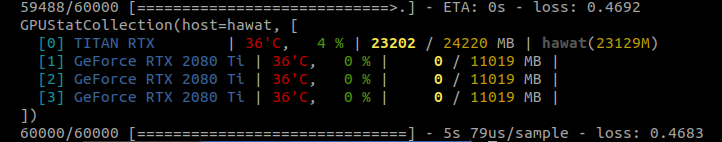
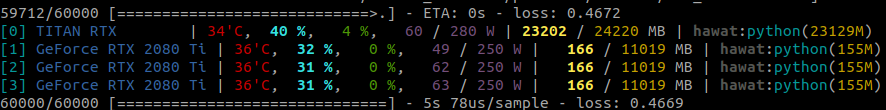
Add documentation on display format

diff --git a/README.md b/README.md
@@ -79,6 +79,13 @@ trainer = pl.Trainer(callbacks=[PyTorchGpuMonitorCallback(delay=0.5)])
 trainer.fit(model)
 ```
 
+## Display Format
+
+You can customize the display format according to the `gpustat` options. For example, display of watts consumption,
+fan speed are available. To know which options you can change, refer to:
+
+- [TensorFlow callback example](https://github.com/sicara/gpumonitor/blob/42237f423254e8fc7ae21e8f2811533a4264064d/scripts/tf_training.py#L16)
+- [`gpustat print_to()` docstring](https://github.com/wookayin/gpustat/blob/aba85f8eba9f7861022eb3dcc06ff771b451b3e1/gpustat/core.py#L178)
 
 ## Sources
 
